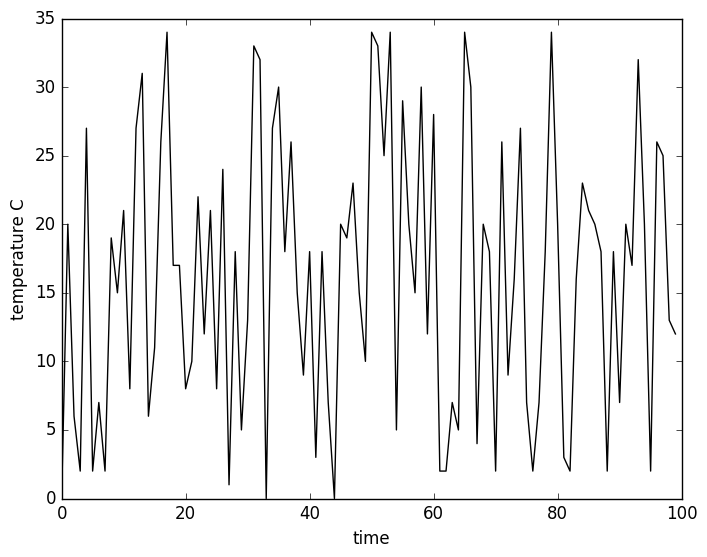
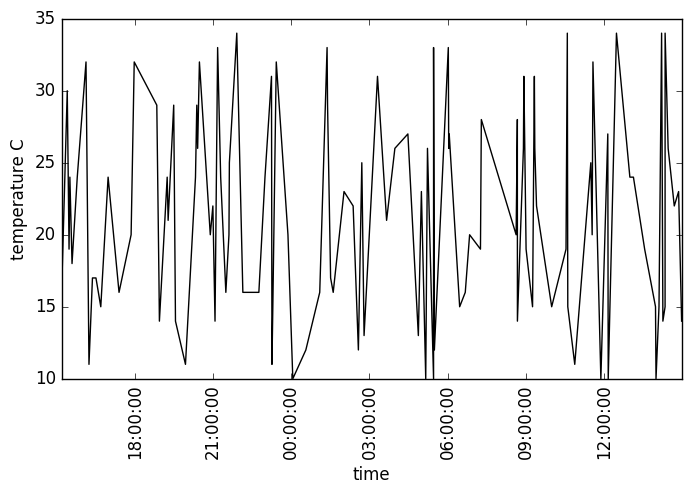
inserting 100 random values in DB and visualizing

Changed region(s): [[0.0, 0.0, 1.0, 1.0]]

diff --git a/website/visualizeData.py b/website/visualizeData.py
@@ -1,10 +1,36 @@
 import numpy as np
 from matplotlib import pyplot as plt
+from matplotlib import dates
+import django
+import os
+os.environ.setdefault("DJANGO_SETTINGS_MODULE", "homeStruction.settings")
+django.setup()
+from project.models import Temperature
+from django.utils import timezone
 
-randArray = np.random.randint(0, 35, 100)
-print randArray
+# Get temperature data from the last 24 hours
+tempArray = Temperature.objects.order_by('-time_recorded').\
+    filter(time_recorded__gte=timezone.now() - timezone.timedelta(days=1))
+
+print tempArray
+
+dateTemp = []
+valueTemp = []
+for item in tempArray:
+    dateTemp.append(item.time_recorded)
+    valueTemp.append(item.value)
+
+print dateTemp, valueTemp
+
+formating = dates.DateFormatter('%H:%M')
+
+print dates.date2num(dateTemp)
 
 cmap = (0, 0, 0)
-plt.plot(randArray, color=cmap), plt.ylabel('temperature C'), plt.xlabel('time')
+
+plt.plot(dateTemp, valueTemp, color=cmap)
+plt.ylabel('temperature C'), plt.xlabel('time')
+plt.xticks(rotation='vertical')
+plt.subplots_adjust(bottom=.3)
 plt.savefig('image.png', bbox_inches='tight', transparent='true')
 plt.show()

diff --git a/website/insertInDBtest.py b/website/insertInDBtest.py
@@ -6,7 +6,14 @@ django.setup()
 # Importing required models and modules
 from project.models import Temperature
 from django.utils import timezone
+import numpy as np
 
-# Inserting into temperature table with current timestamp
-Temperature.objects.create(value=25, time_recorded=timezone.now())
+randValue = np.random.randint(10, 35, 100)
+randMin = np.random.randint(0, 3600, 100)
+
+# Create 100 temperature objects with random time(last 24 hour) and value
+now = timezone.now()
+for i in range(100):
+    Temperature.objects.create(value=randValue[i], time_recorded=now -
+                               timezone.timedelta(minutes=randMin[i]))
 
